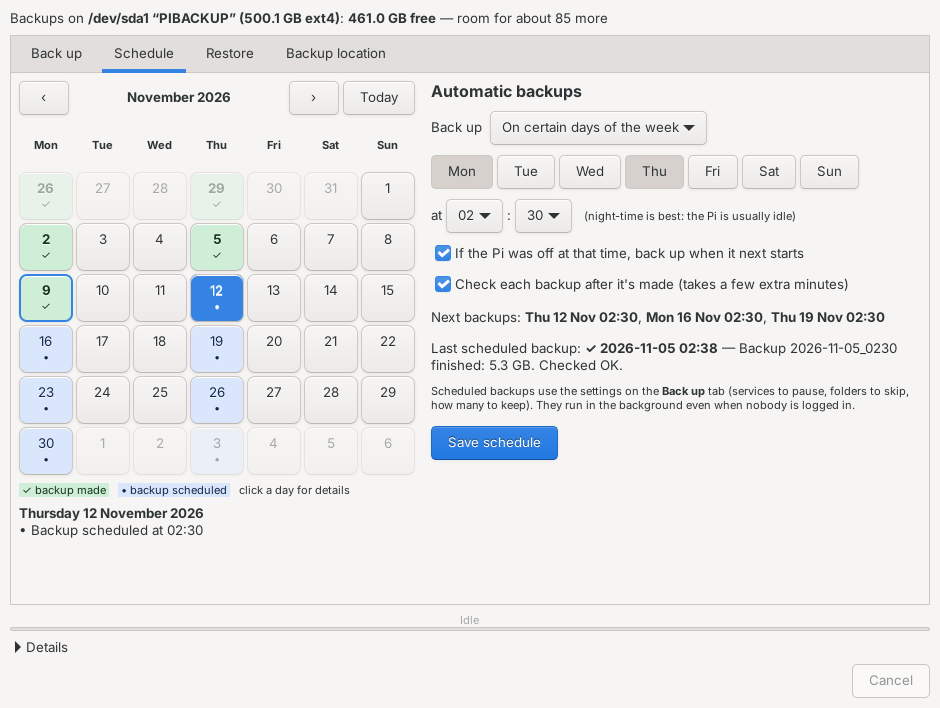
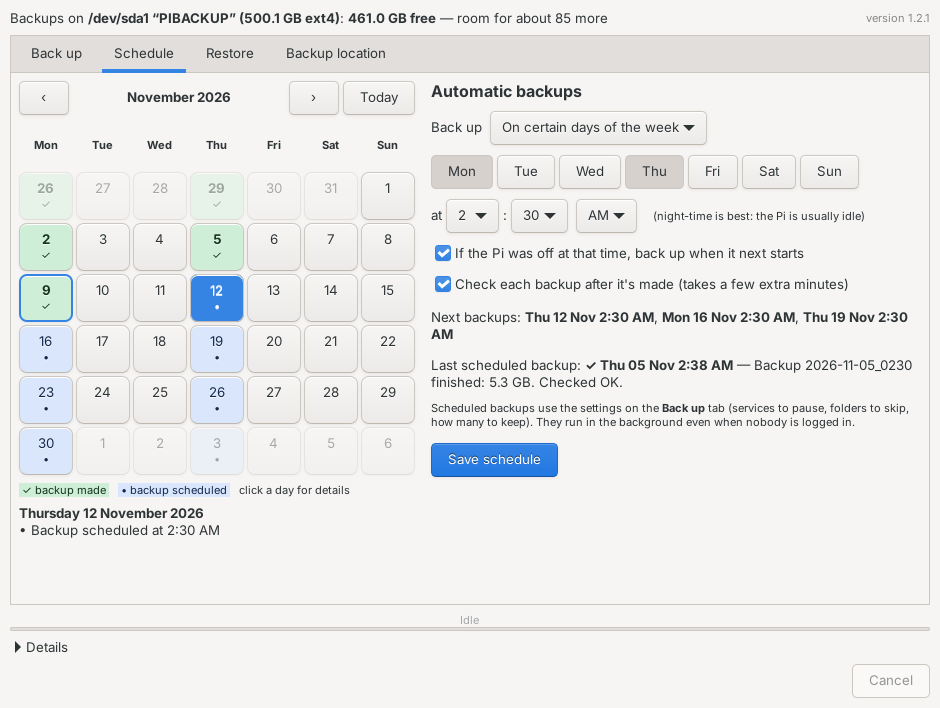
v1.2.1: 12-hour clock with AM/PM in the scheduler
Times are picked and shown as 1-12 + AM/PM; schedules are still stored in
24-hour form, so existing ones keep working.

Claude-Session: https://claude.ai/code/session_01KmoB7at9wED3AtLATMJF7o

diff --git a/README.md b/README.md
@@ -1,6 +1,6 @@
 # Pi Backup Manager
 
-**Version 1.2.0** · [Changelog](#changelog) · [Upgrade](#upgrade)
+**Version 1.2.1** · [Changelog](#changelog) · [Upgrade](#upgrade)
 
 A simple desktop app for **compressed, restorable whole-system backups** of a Raspberry Pi,
 with a **disk manager** for choosing where backups live and a **calendar scheduler** for
@@ -191,6 +191,7 @@ Then remove the two Pi Backup Manager lines from `/etc/fstab`. Your backups stay
 
 ## Changelog
 
+- **1.2.1:** the scheduler uses a 12-hour clock with AM/PM.
 - **1.2.0:** the version is shown in the app; one-line install and upgrade (`upgrade.sh`).
 - **1.1.1:** Backup location: selecting a drive uses its only usable partition, and greyed-out
   buttons explain why.
